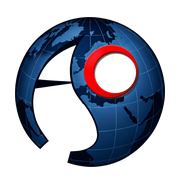
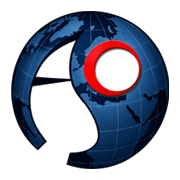
Add files via upload

Changed region(s): [[0.0556, 0.0556, 0.9444, 0.9444], [0.6111, 0.6389, 0.6667, 0.8333]]

diff --git a/index.html b/index.html
@@ -119,14 +119,15 @@ section.band{padding:clamp(4rem,8vw,7rem) 0}
 }
 .head-inner{display:flex;align-items:center;justify-content:space-between;gap:1.5rem;height:74px}
 .logo{font-family:'Archivo',sans-serif;font-weight:900;font-size:1.34rem;letter-spacing:-.01em;line-height:1;text-transform:uppercase;display:flex;align-items:center;gap:.7rem;flex:none}
-.logo-mark{width:46px;height:46px;flex:none;display:block}
+/* The emblem always sits in a white disc. Its counters are transparent, so
+   the disc keeps the A and O white on any ground; the faint ring keeps the
+   disc visible on the white header. */
+.logo-mark{width:46px;height:46px;flex:none;display:block;background:#ffffff;border-radius:50%;padding:3px;box-sizing:content-box;box-shadow:0 0 0 1px var(--line),0 2px 8px -3px rgba(0,22,104,.3)}
 /* AERO: brand blue on light ground, white on dark. GLOBAL: brand red on both. */
 .logo-aero{color:var(--navy)}
 .logo-global{color:var(--red)}
 .logo.on-dark .logo-aero{color:#ffffff}
-/* The logo's counters are transparent, so on a dark ground it needs a
-   light disc behind it or the A and O fill in and the mark goes muddy. */
-.logo.on-dark .logo-mark{background:#ffffff;border-radius:50%;padding:3px;box-sizing:content-box}
+.logo.on-dark .logo-mark{box-shadow:none}
 .nav{display:flex;align-items:center;gap:.35rem}
 .nav a{
   font-family:'Archivo',sans-serif;font-weight:700;text-transform:uppercase;
@@ -959,9 +960,9 @@ section.band{padding:clamp(4rem,8vw,7rem) 0}
         <a href="#contact" class="btn btn-navy" style="margin-top:2rem">Book local trucking <svg><use href="#ico-arrow"/></svg></a>
       </div>
       <div class="svc-shots">
-        <figure><img src="images/stock-truck-fleet.jpg" alt="Truck travelling along a country road, seen from above" loading="lazy"><figcaption>Nationwide delivery</figcaption></figure>
-        <figure><img src="images/agl-truck-highway.jpg" alt="Aero Global branded prime mover on a highway at dusk" loading="lazy"><figcaption>On the road</figcaption></figure>
-        <figure><img src="images/fleet-man.jpg" alt="MAN prime mover from the Aero Global Logistics fleet" loading="lazy"><figcaption>Our MAN prime mover</figcaption></figure>
+        <figure><img src="images/lt-hino-highway.jpg" alt="Two Aero Global branded Hino box trucks on a city highway" loading="lazy"><figcaption>Nationwide delivery</figcaption></figure>
+        <figure><img src="images/lt-hino-fleet.jpg" alt="Aero Global Hino box trucks parked at a warehouse at sunset" loading="lazy"><figcaption>Our rigid truck fleet</figcaption></figure>
+        <figure><img src="images/lt-hino-boxtruck.jpg" alt="Hino box truck parked on a gravel lot at sunset" loading="lazy"><figcaption>Box trucks for palletised cargo</figcaption></figure>
       </div>
     </div>
   </section>
@@ -1119,9 +1120,11 @@ section.band{padding:clamp(4rem,8vw,7rem) 0}
         <a href="#contact" class="btn btn-navy" style="margin-top:2rem">Discuss a project move <svg><use href="#ico-arrow"/></svg></a>
       </div>
       <div class="svc-shots">
-        <figure><img src="images/pm-oversize-road.jpg" alt="Oversized industrial vessel being transported on a multi-axle trailer" loading="lazy"><figcaption>Oversized cargo on the move</figcaption></figure>
-        <figure><img src="images/pm-heavy-lift.jpg" alt="Heavy-lift cranes loading large pipes onto a vessel" loading="lazy"><figcaption>Heavy lift operations</figcaption></figure>
-        <figure><img src="images/agl-project-crane.jpg" alt="Crane lifting a crated load beside a prime mover" loading="lazy"><figcaption>Crane lifting on site</figcaption></figure>
+        <figure><img src="images/pm-fuselage-banner.jpg" alt="Aircraft fuselage section secured on a flat rack with an Aero Global Logistics banner" loading="lazy"><figcaption>Aircraft fuselage move</figcaption></figure>
+        <figure><img src="images/pm-fuselage-flatrack.jpg" alt="Aircraft fuselage lashed to a flat rack container in a yard" loading="lazy"><figcaption>Out-of-gauge on flat rack</figcaption></figure>
+        <figure><img src="images/pm-quay-crane-lift.jpg" alt="Quay crane lifting a flat rack carrying an aircraft fuselage at the port" loading="lazy" style="object-position:center 35%"><figcaption>Quay crane lift at port</figcaption></figure>
+        <figure><img src="images/pm-flatrack-lashing.jpg" alt="Crew lashing steel structures onto a flat rack on a multi-axle trailer" loading="lazy"><figcaption>Lashing and securing</figcaption></figure>
+        <figure><img src="images/pm-flatrack-tarped.jpg" alt="Tarpaulin-covered cargo on a flat rack ready for transport" loading="lazy"><figcaption>Covered and ready to haul</figcaption></figure>
       </div>
     </div>
   </section>

diff --git a/contact.php b/contact.php
@@ -40,7 +40,7 @@ function respond($ok, $message, $isAjax) {
        . '.box{background:#ffffff;border:1px solid #E1E5EF;border-top:4px solid #001668;border-radius:8px;padding:2.5rem;max-width:520px}'
        . '.logo{display:inline-flex;align-items:center;gap:.7rem;margin-bottom:1.8rem;font-family:Archivo,system-ui,sans-serif;'
        . 'font-weight:900;font-size:1.4rem;text-transform:uppercase;letter-spacing:-.01em;text-decoration:none}'
-       . '.logo img{width:48px;height:48px}.aero{color:#001668}.global{color:#d40000}'
+       . '.logo img{width:48px;height:48px;background:#ffffff;border-radius:50%;padding:3px;box-shadow:0 0 0 1px #E1E5EF,0 2px 8px -3px rgba(0,22,104,.3)}.aero{color:#001668}.global{color:#d40000}'
        . 'h1{font-size:1.5rem;margin:0 0 .8rem;color:' . $colour . '}p{color:#55607F;line-height:1.6;margin:0 0 1.6rem}'
        . '.back{display:inline-block;background:#d40000;color:#ffffff;text-decoration:none;padding:.85rem 1.6rem;'
        . 'border-radius:4px;font-weight:700;letter-spacing:.08em;text-transform:uppercase;font-size:.8rem}'
